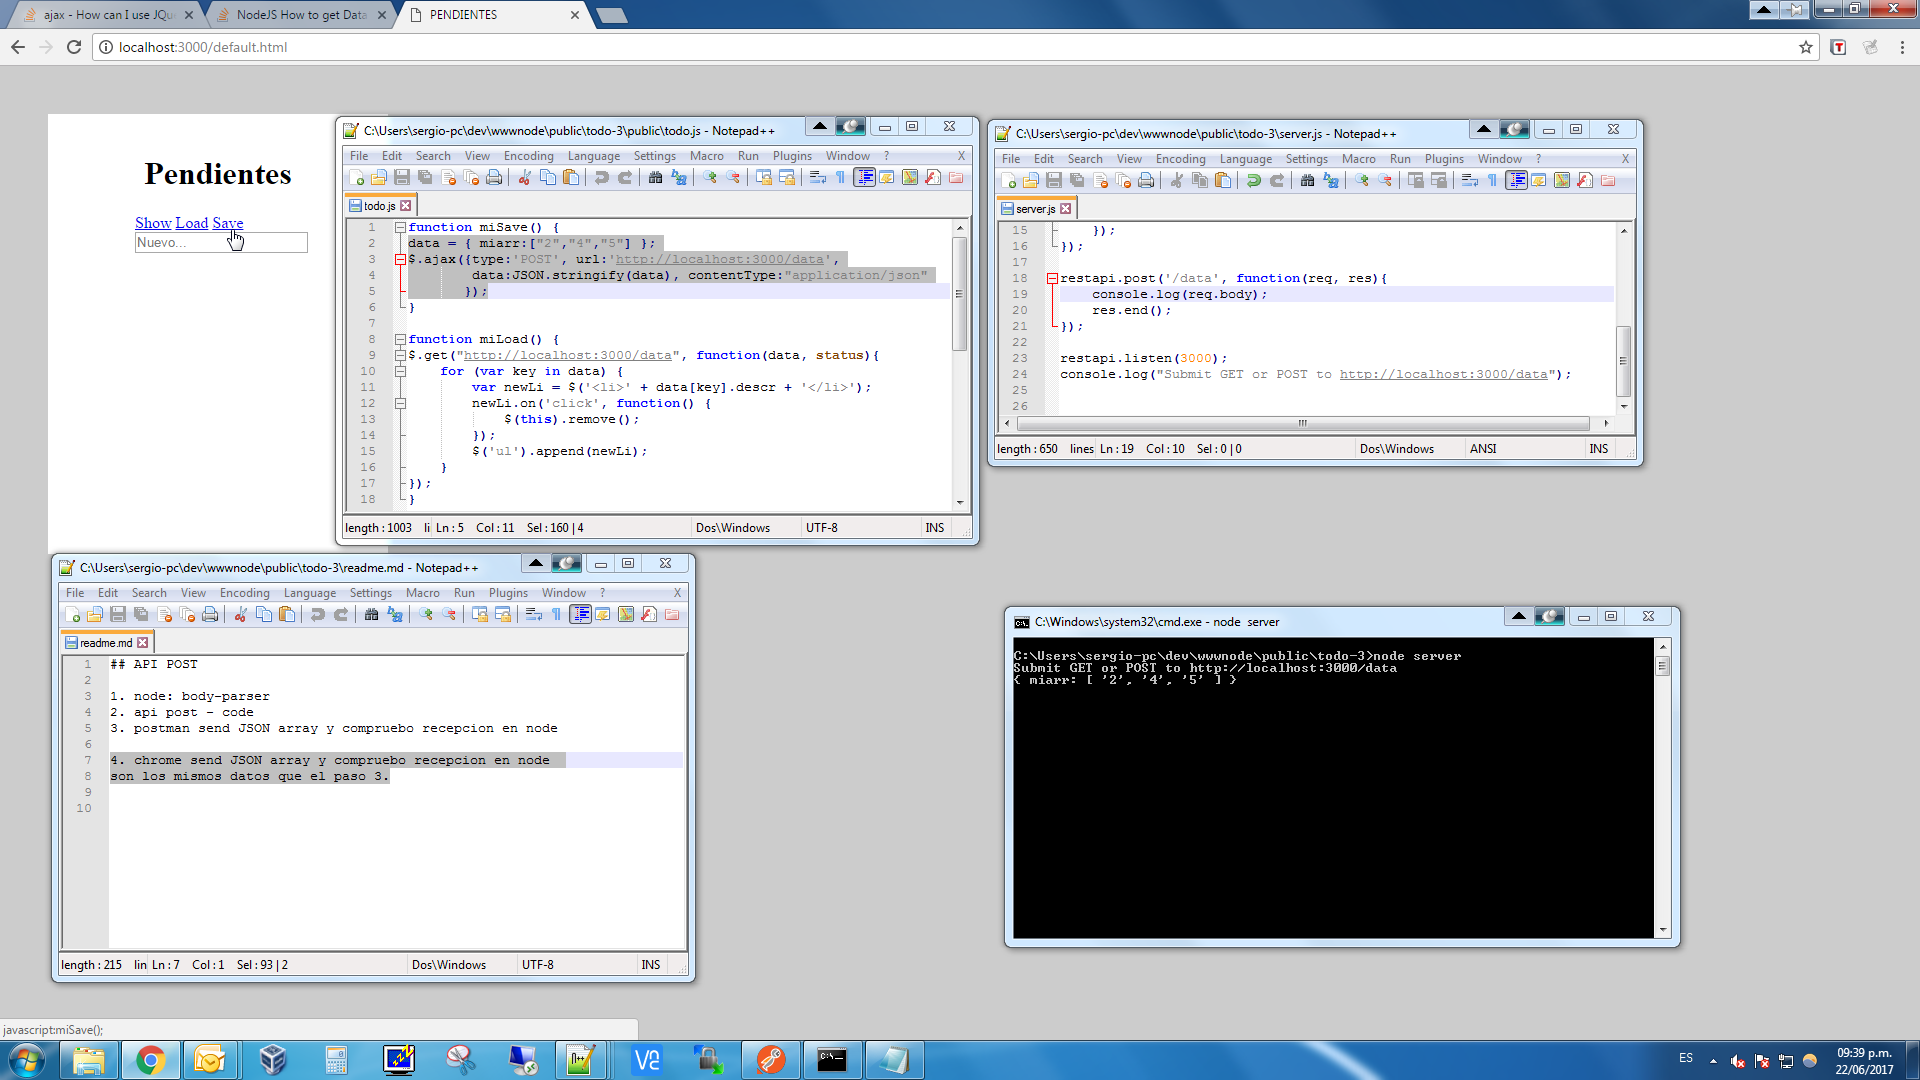
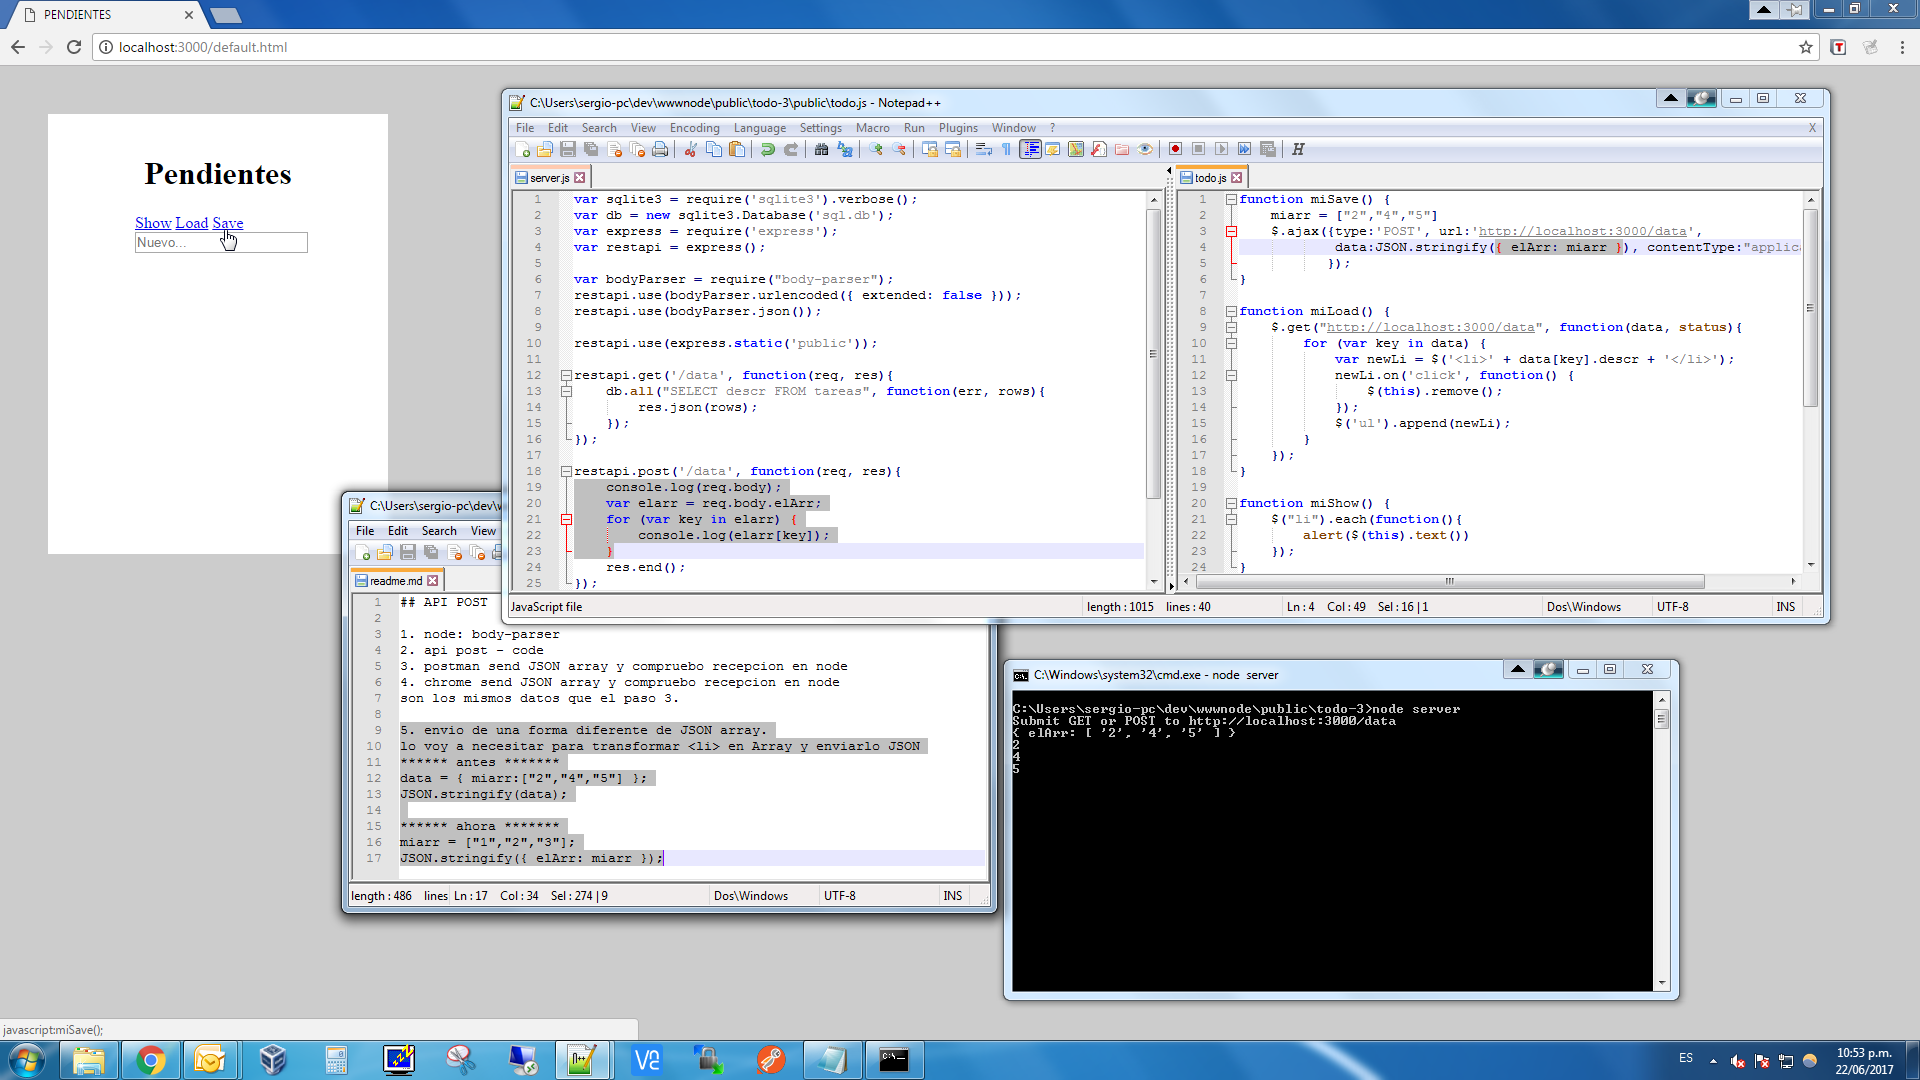
API POST - json se arma distinto, test from Jquery send Array

diff --git a/public/todo.js b/public/todo.js
@@ -1,7 +1,7 @@
 function miSave() {
-	data = { miarr:["2","4","5"] };
+	miarr = ["2","4","5"]
 	$.ajax({type:'POST', url:'http://localhost:3000/data',
-			data:JSON.stringify(data), contentType:"application/json"
+			data:JSON.stringify({ elArr: miarr }), contentType:"application/json"
 		   });
 }
 

diff --git a/server.js b/server.js
@@ -17,6 +17,10 @@ restapi.get('/data', function(req, res){
 
 restapi.post('/data', function(req, res){
 	console.log(req.body);
+	var elarr = req.body.elArr;
+	for (var key in elarr) {
+		console.log(elarr[key]);
+	}
 	res.end();
 });
 

diff --git a/readme.md b/readme.md
@@ -3,8 +3,15 @@
 1. node: body-parser
 2. api post - code
 3. postman send JSON array y compruebo recepcion en node
-
 4. chrome send JSON array y compruebo recepcion en node 
 son los mismos datos que el paso 3.
 
- 
+5. envio de una forma diferente el objeto JSON que el value es un array.
+lo voy a necesitar para transformar <li> en Array y enviarlo JSON
+****** antes *******
+data = { miarr:["2","4","5"] };
+JSON.stringify(data);
+
+****** ahora *******
+miarr = ["1","2","3"];
+JSON.stringify({ elArr: miarr });
